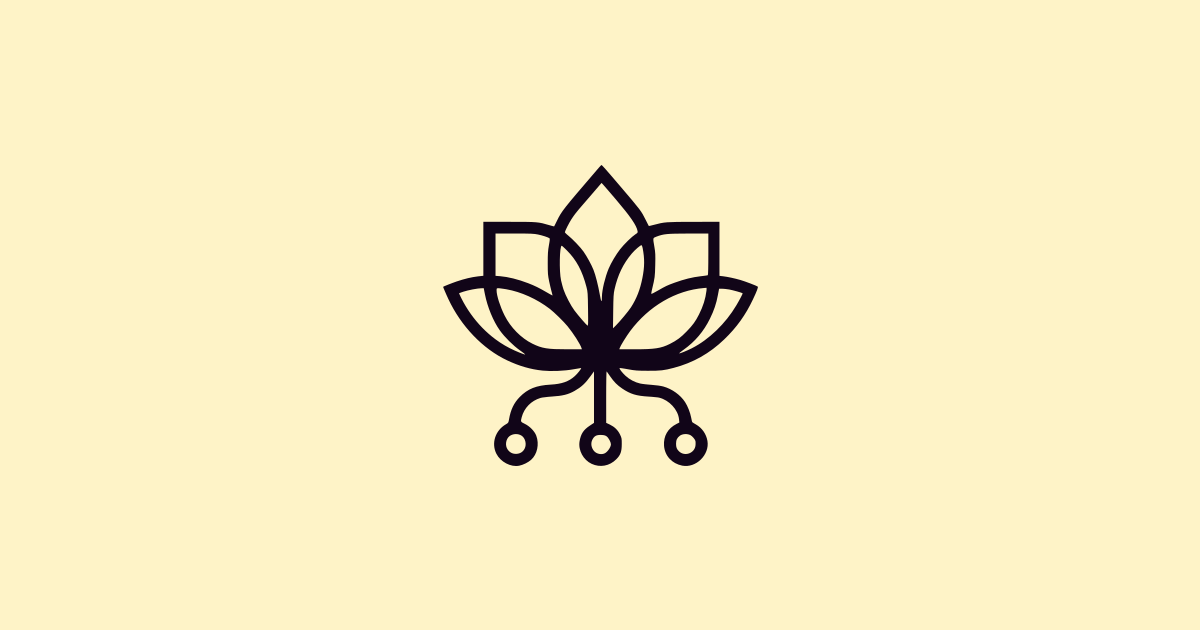
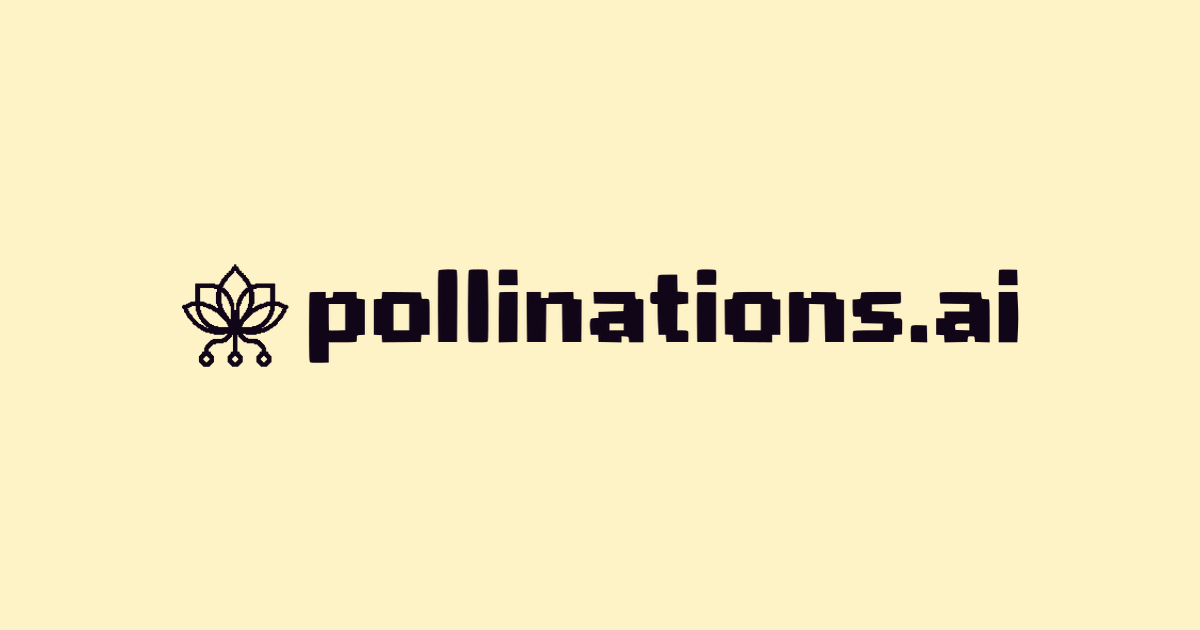
feat(brand-assets): wordmark OG card per app (enter mint, react amber)

Changed region(s): [[0.1542, 0.2714, 0.8633, 0.754]]

diff --git a/tools/brand-assets/src/render.js b/tools/brand-assets/src/render.js
@@ -21,7 +21,10 @@ function hexToRgb(hex) {
  * Core: a tinted logo sized to `fraction` of the shorter side, centered on a
  * canvas. `bg` is a hex color (opaque background) or null (transparent).
  */
-async function compose(svg, { width, height = width, bg = null, logoColor, fraction }) {
+async function compose(
+    svg,
+    { width, height = width, bg = null, logoColor, fraction },
+) {
     const logoSize = Math.round(Math.min(width, height) * fraction);
     const logo = await sharp(Buffer.from(tintLogo(svg, logoColor)))
         .resize(logoSize, logoSize, { fit: "contain", background: TRANSPARENT })
@@ -61,7 +64,38 @@ export function renderSolidIcon(svg, size, { bg, logoColor, fraction = 0.62 }) {
     return compose(svg, { width: size, bg, logoColor, fraction });
 }
 
-/** OG card: logo centered on a solid brand-color field. */
-export function renderOg(svg, { width = 1200, height = 630, bg, logoColor, fraction = 0.5 }) {
-    return compose(svg, { width, height, bg, logoColor, fraction });
+/**
+ * OG card: a tinted logo (typically the wide wordmark) fit within `wFraction` ×
+ * `hFraction` of the card, centered on a solid brand-color field. Uses fit
+ * "inside" + gravity center so any aspect ratio is preserved without cropping.
+ */
+export async function renderOg(
+    svg,
+    {
+        width = 1200,
+        height = 630,
+        bg,
+        logoColor,
+        wFraction = 0.7,
+        hFraction = 0.55,
+    },
+) {
+    const logo = await sharp(Buffer.from(tintLogo(svg, logoColor)))
+        .resize(Math.round(width * wFraction), Math.round(height * hFraction), {
+            fit: "inside",
+            background: TRANSPARENT,
+        })
+        .png()
+        .toBuffer();
+    return sharp({
+        create: {
+            width,
+            height,
+            channels: 4,
+            background: { ...hexToRgb(bg), alpha: 1 },
+        },
+    })
+        .composite([{ input: logo, gravity: "center" }])
+        .png()
+        .toBuffer();
 }

diff --git a/tools/brand-assets/src/cli.js b/tools/brand-assets/src/cli.js
@@ -16,9 +16,11 @@ const require = createRequire(import.meta.url);
 // tools/brand-assets/src -> repo root is three levels up.
 const REPO_ROOT = join(dirname(fileURLToPath(import.meta.url)), "../../..");
 
-// Single brand source: the logo shipped in the UI package (uses currentColor).
+// Single brand source: the logos shipped in the UI package (use currentColor).
 const UI_ROOT = dirname(require.resolve("@pollinations_ai/ui/package.json"));
-const loadLogo = () => readFile(join(UI_ROOT, "src/assets/logo.svg"), "utf8");
+const uiAsset = (file) => readFile(join(UI_ROOT, "src/assets", file), "utf8");
+const loadLogo = () => uiAsset("logo.svg"); // flower — icons
+const loadWordmark = () => uiAsset("logo-wordmark.svg"); // wordmark — OG card
 
 const DARK = "#110518"; // pollinations splash / OG contrast
 
@@ -39,7 +41,7 @@ const APPS = {
         brandColor: "#D1FAE4", // unchanged; not one of the named themes
         contrastColor: DARK,
         outDir: "enter.pollinations.ai/frontend/public",
-        og: false,
+        og: true,
         manifest: null, // hand-maintained — leave it alone
     },
 };
@@ -138,9 +140,10 @@ async function generate(name) {
     }
 
     if (cfg.og) {
+        const wordmark = await loadWordmark();
         await write(
             "og-image.png",
-            await renderOg(svg, {
+            await renderOg(wordmark, {
                 bg: cfg.brandColor,
                 logoColor: cfg.contrastColor,
             }),
